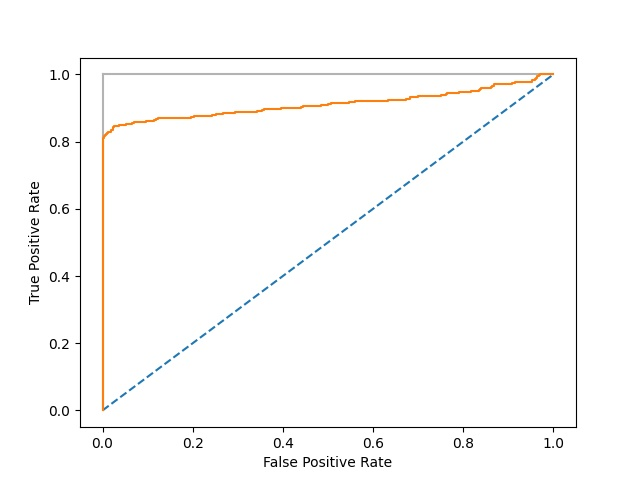
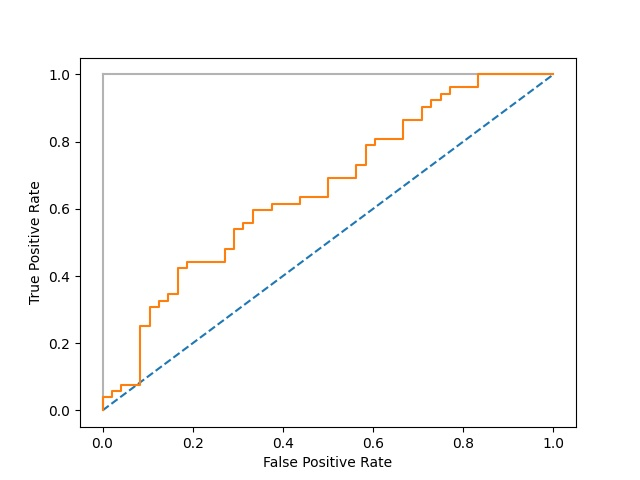
working on evaluate

diff --git a/CNN.py b/CNN.py
@@ -67,7 +67,7 @@ def CNN(X_train,y_train,batch_size = 20,epochs = 10):
 
 def normalize(X):
     m = np.shape(X)[0] # number of examples
-    n_H = np.shape(X)[1] # number of features in an example 
+    n_H = np.shape(X)[1] 
     n_W = np.shape(X) [2]
     n_C = np.shape(X)[3]
     mu = np.reshape(np.sum(X,axis=0),(n_H,n_W,n_C))/m
@@ -75,35 +75,40 @@ def normalize(X):
     return (X - mu)/255
 
 def main():
-    data_train = img_proc.Data_Generator('data/train_sep', 1000, shuffle=True, flatten=False)
+    data_train = img_proc.Data_Generator('data/train_sep', 100, shuffle=True, flatten=False)
     X_train, y_train = data_train.__getitem__(1)
     print(f"X_train.shape = {X_train.shape}")
     print(f"y_train.shape = {y_train.shape}")
-    model = CNN(normalize(X_train),y_train, batch_size = 25, epochs = 5)
-    y_train_pred = model.predict(X_train)
+    model = CNN(normalize(X_train),y_train, batch_size = 10, epochs = 5)
+    y_train_pred = model.predict(normalize(X_train))
 
-    data_valid = img_proc.Data_Generator('data/valid', 1000, shuffle=True, flatten=False)
+    data_valid = img_proc.Data_Generator('data/valid', 100, shuffle=True, flatten=False)
     X_valid, y_valid = data_valid.__getitem__(1)
     y_valid_pred = model.predict(normalize(X_valid))
     
+    #saving data to csv
+    data = np.concatenate((y_train,y_train_pred,y_valid,y_valid_pred),axis=1)
+    np.savetxt('predictions_cnn.csv',data,delimiter=',',header='Y_train,y_train_pred,y_valid,y_valid_pred')
 
-    auc_roc,threshold_best = evaluate.ROCandAUROC(y_valid_pred,y_valid,'ROC_valid_data_cnn.jpeg')
+    #calculating metrics
+    threshold_best_accuracy = evaluate.find_best_threshold(y_valid_pred,y_valid)
+    auc_roc,threshold_best = evaluate.ROCandAUROC(y_valid_pred,y_valid,'ROC_valid_data_cnn.jpeg', 'ROC_valid_data_cnn.csv')
 
     print(f"\nArea Under ROC = {auc_roc}")
-    tp,fn,fp,tn = evaluate.counts(y_train_pred, y_train, threshold = threshold_best)
+    tp,fn,fp,tn = evaluate.counts(y_train_pred, y_train, threshold = threshold_best_accuracy) #threshold_best)
     acc,prec,sens,spec,F1 = evaluate.stats(tp,fn,fp,tn)
     print("\nStats for predictions on train set:")
-    print(f"Threshold = {threshold_best}")
+    print(f"Threshold = {threshold_best_accuracy}") #threshold_best}")
     print(f"Accuracy = {acc}")
     print(f"Precision = {prec}")
     print(f"Sensitivity = {sens}")
     print(f"Specificity = {spec}")
     print(f"F1 score = {F1}")
 
-    tp,fn,fp,tn = evaluate.counts(y_valid_pred, y_valid, threshold = threshold_best)
+    tp,fn,fp,tn = evaluate.counts(y_valid_pred, y_valid, threshold = threshold_best_accuracy) #threshold_best)
     acc,prec,sens,spec,F1 = evaluate.stats(tp,fn,fp,tn)
     print("\nStats for predictions on validation set:")
-    print(f"Threshold = {threshold_best}")
+    print(f"Threshold = {threshold_best_accuracy}") #threshold_best}")
     print(f"Accuracy = {acc}")
     print(f"Precision = {prec}")
     print(f"Sensitivity = {sens}")

diff --git a/evaluate.py b/evaluate.py
@@ -2,6 +2,7 @@ from sklearn.metrics import roc_curve
 from sklearn.metrics import roc_auc_score
 import numpy as np
 import matplotlib.pyplot as plt
+import csv 
 
 def counts(y_pred, y_true, threshold = 0.5):
 	""" 
@@ -58,7 +59,7 @@ def stats(tp,fn,fp,tn):
 
 	return accuracy,precision,sensitivity,specificity,F1
 
-def ROCandAUROC(y_pred,y_true,ROC_path = 'ROC.jpeg'):
+def ROCandAUROC(y_pred,y_true,jpeg_path = 'ROC.jpeg',csv_path = 'ROC.csv'):
 
 	#getting true positive rate and false positive rate
 	fpr, tpr, thresholds = roc_curve(y_true, y_pred)
@@ -71,7 +72,7 @@ def ROCandAUROC(y_pred,y_true,ROC_path = 'ROC.jpeg'):
 	plt.plot(fpr, tpr)
 	plt.ylabel('True Positive Rate')
 	plt.xlabel('False Positive Rate')
-	plt.savefig(ROC_path)
+	plt.savefig(jpeg_path)
 
 	auc = roc_auc_score(y_true, y_pred)
 
@@ -82,4 +83,21 @@ def ROCandAUROC(y_pred,y_true,ROC_path = 'ROC.jpeg'):
 		if p[indx_best] <= p[i]:
 			indx_best = i
 
+
+	#saving data to csv
+	thresholds = np.reshape(thresholds,(thresholds.shape[0],1))
+	fpr = np.reshape(fpr,(fpr.shape[0],1))
+	tpr = np.reshape(tpr,(tpr.shape[0],1)) 
+	data = np.concatenate((thresholds,fpr,tpr),axis=1)
+	np.savetxt(csv_path,data,delimiter=',',header='thresholds,fpr,tpr')
+
 	return auc, thresholds[indx_best]
+
+def find_best_threshold(y_pred,y_true):
+	num_thresholds = 1000
+	thresholds = np.zeros((num_thresholds,1))
+	accuracy = np.zeros((num_thresholds,1))
+	for i in range(num_thresholds):
+		thresholds[i] = i*(1/num_thresholds)
+		accuracy[i] = np.sum(1.0*(1.0*(y_pred > thresholds[i]) == y_true))/y_true.shape[0]
+	return thresholds[np.argmax(accuracy)]
